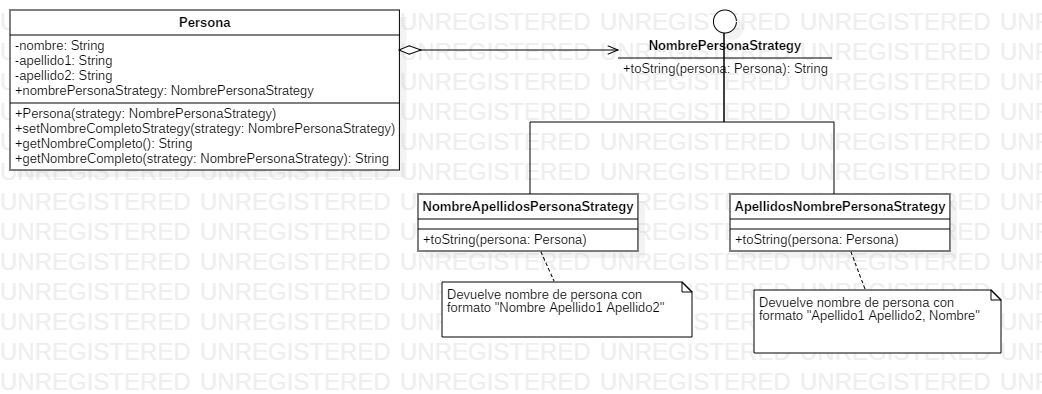
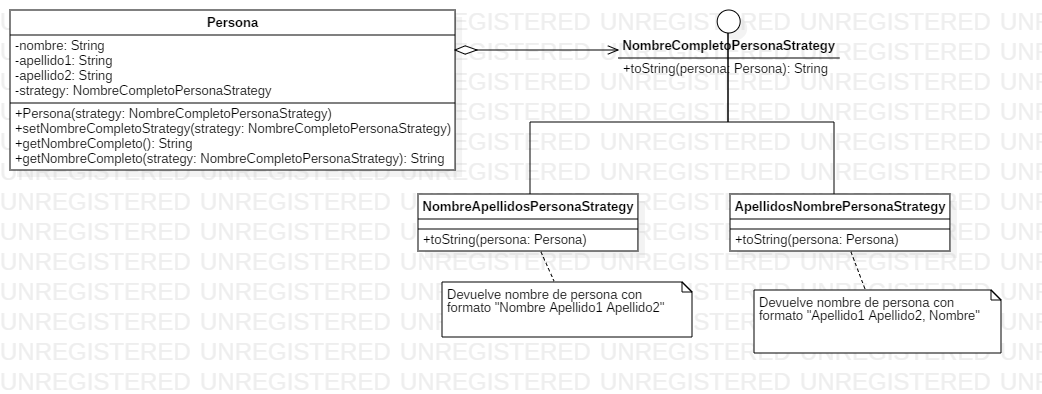
Incluido en README.md patron Strategy con explicación, diagrama y ejemplo

diff --git a/README.md b/README.md
@@ -26,4 +26,88 @@
 ![alt text](https://raw.githubusercontent.com/robertome/roberto.martin.patrones.apaw.miw.upm.es/develop/doc/APAW.ECP1.Patrones.png)
 
 ### Patrón Strategy
+
+El Patrón Strategy es un patrón de diseño de software de comportamiento (Behavioral pattern) que permite seleccionar un algoritmo en tiempo de ejecución. 
+Permite que un objeto tenga parte o la totalidad de su comportamiento definido en términos de otro objeto que sigue una interfaz particular. 
+Se proporciona una instancia particular de esta interfaz al cliente cuando se crea una instancia o se invoca, proporcionando el comportamiento concreto que se utilizará. 
+El patrón Strategy se utiliza ampliamente para lograr el principio de responsabilidad única, el principio de dependencia explícita y el principio de inversión de dependencia, y es una clave para la inyección de dependencia y el uso de contenedores de inversión de control.
+
+#### Intención
+- Encapsular algoritmos relacionados en clases y hacerlos intercambiables.
+- Se permite que la selección del algoritmo se haga según el objeto que se trate.
+
+#### Aplicaciones
+- Se quiera configurar una clase con un comportamiento determinado de entre varios.
+- Se permite cambiar el algoritmo dinámicamente
+- Se necesitan distintas variaciones de un algoritmo.
+- Los distintos comportamientos de una clase aparecen como múltiples sentencias condicionales. El patrón Strategy permite mover cada rama de esos condicionales anidados a su propia clase.
+
+#### Ejemplo
+##### Diagrama
 ![alt text](https://raw.githubusercontent.com/robertome/roberto.martin.patrones.apaw.miw.upm.es/develop/doc/APAW.ECP1.Strategy.png)
+
+
+##### Código
+
+```java
+
+interface NombreCompletoPersonaStrategy {
+  String toString(Persona persona);
+}
+
+class Persona {
+  private String nombre;
+  private String apellido1;
+  private String apellido2;
+  private NombreCompletoPersonaStrategy strategy;
+
+  public Persona(NombreCompletoPersonaStrategy strategy) {
+    this.strategy = strategy;
+  }
+
+  public String getNombreCompleto() {
+    return strategy.toString(this);
+  }
+
+  public String getNombreCompleto(NombreCompletoPersonaStrategy strategy) {
+    return strategy.toString(this);
+  }
+
+  public void setNombreCompletoPersonaStrategy(NombreCompletoPersonaStrategy strategy) {
+    this.strategy = strategy;
+  }
+
+  /* Getters/Setters*/
+  
+}
+
+class NombreApellidosPersonaStrategy implements NombreCompletoPersonaStrategy {
+  @Override
+  public String toString(Persona persona) {
+    return String.format("%s %s %s", persona.getNombre(), persona.getApellido1(), persona.getApellido2());
+  }
+}
+
+class ApellidosNombrePersonaStrategy implements NombreCompletoPersonaStrategy {
+  @Override
+  public String toString(Persona persona) {
+    return String.format("%s %s, %s", persona.getApellido1(), persona.getApellido2(), persona.getNombre());
+  }
+}
+
+public static void main(String[] args) {
+  Persona persona = new Persona(new NombreApellidosPersonaStrategy());
+  persona.setNombre("Roberto");
+  persona.setApellido1("Martin");
+  persona.setApellido2("Escribano");
+
+  persona.getNombreCompleto(); //Roberto Martin Escribano
+
+  persona.setNombreCompletoPersonaStrategy(new ApellidosNombrePersonaStrategy());
+  persona.getNombreCompleto(); //Martin Escribano, Roberto
+
+  persona.getNombreCompleto(new NombreApellidosPersonaStrategy()); //Roberto Martin Escribano
+}
+
+```
+
